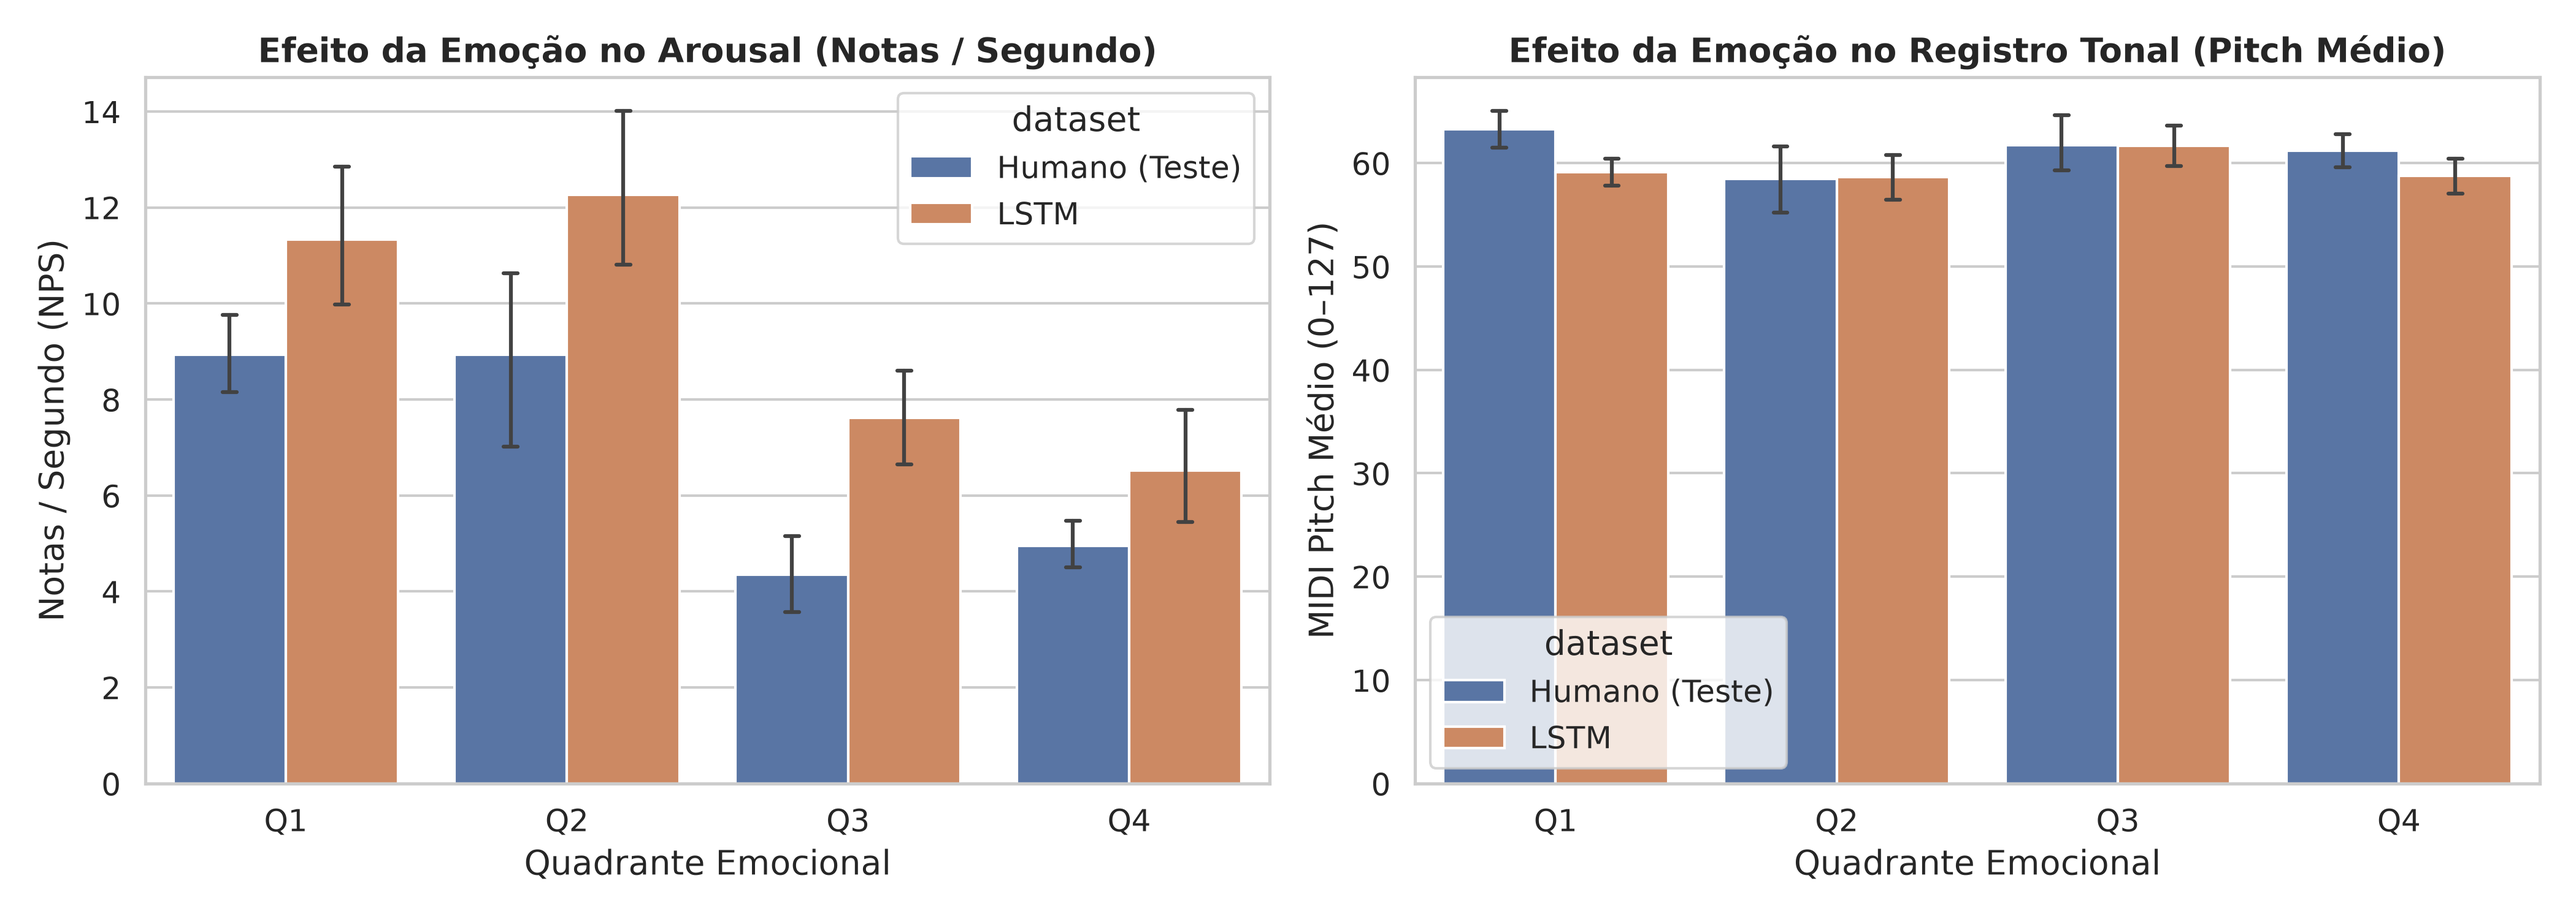
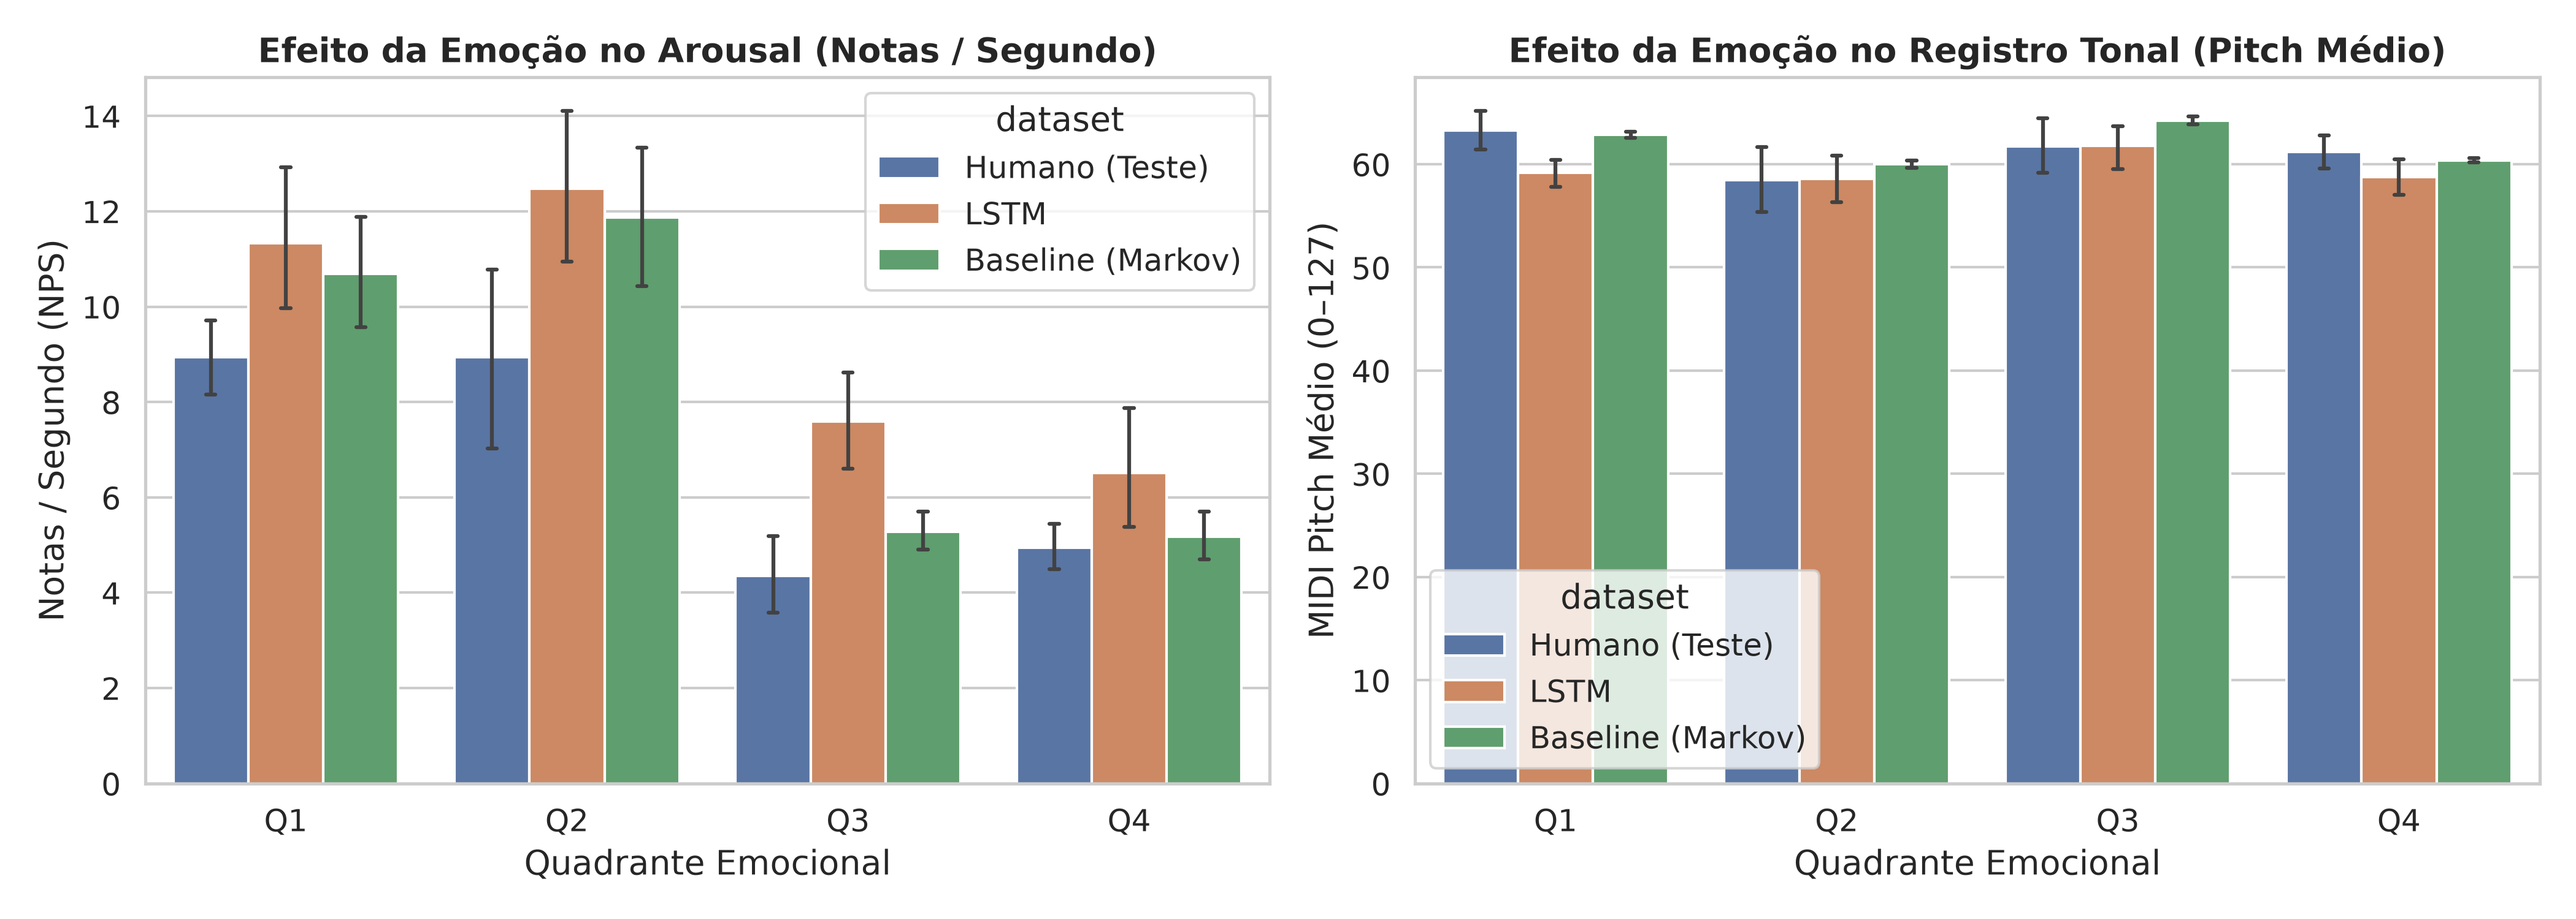
Graficos finais com dados da parte 5

diff --git a/saidas/avaliacao/tabela_metricas_ismir.tex b/saidas/avaliacao/tabela_metricas_ismir.tex
@@ -1,13 +1,15 @@
 % Tabela gerada automaticamente para o artigo ISMIR
-\begin{tabular}{lllll}
+\begin{tabular}{llllllll}
 \toprule
-Métrica & Humano (Teste) & LSTM (Média±DP) & LSTM (OA ↑) & LSTM (KL ↓) \\
+Métrica & Humano (Teste) & LSTM (Média±DP) & LSTM (OA ↑) & LSTM (KL ↓) & Baseline (Markov) (Média±DP) & Baseline (Markov) (OA ↑) & Baseline (Markov) (KL ↓) \\
 \midrule
-Pitch Range & 54.95 ± 11.35 & 47.93 ± 9.94 & 0.548 & 2.483 \\
-Pitch Class Entropy & 2.71 ± 0.20 & 2.69 ± 0.24 & 0.663 & 1.194 \\
-Scale Consistency & 0.96 ± 0.06 & 0.96 ± 0.04 & 0.657 & 1.538 \\
-Polyphony & 5.91 ± 1.58 & 4.27 ± 0.79 & 0.356 & 4.823 \\
-Empty Beat Rate & 0.00 ± 0.01 & 0.01 ± 0.02 & 0.768 & 0.409 \\
-Note Density & 6.80 ± 3.27 & 9.43 ± 4.23 & 0.656 & 1.076 \\
+Pitch Range & 54.95 ± 11.35 & 47.98 ± 10.07 & 0.540 & 2.489 & 55.29 ± 8.13 & 0.501 & 2.650 \\
+Pitch Entropy & 4.34 ± 0.45 & 4.22 ± 0.45 & 0.627 & 1.284 & 5.35 ± 0.26 & 0.120 & 8.690 \\
+Pitch Class Entropy & 2.71 ± 0.20 & 2.70 ± 0.24 & 0.661 & 1.187 & 3.54 ± 0.04 & 0.000 & 10.624 \\
+Scale Consistency & 0.96 ± 0.06 & 0.96 ± 0.04 & 0.648 & 1.552 & 0.64 ± 0.03 & 0.011 & 11.460 \\
+Groove Consistency & 0.62 ± 0.12 & 0.56 ± 0.09 & 0.627 & 1.764 & 0.57 ± 0.09 & 0.628 & 2.405 \\
+Polyphony & 5.91 ± 1.58 & 4.27 ± 0.79 & 0.350 & 4.831 & 5.60 ± 1.36 & 0.628 & 1.855 \\
+Empty Beat Rate & 0.00 ± 0.01 & 0.01 ± 0.02 & 0.777 & 0.393 & 0.04 ± 0.04 & 0.454 & 0.788 \\
+Note Density & 6.80 ± 3.27 & 9.48 ± 4.29 & 0.655 & 1.091 & 8.25 ± 3.94 & 0.689 & 1.137 \\
 \bottomrule
 \end{tabular}
